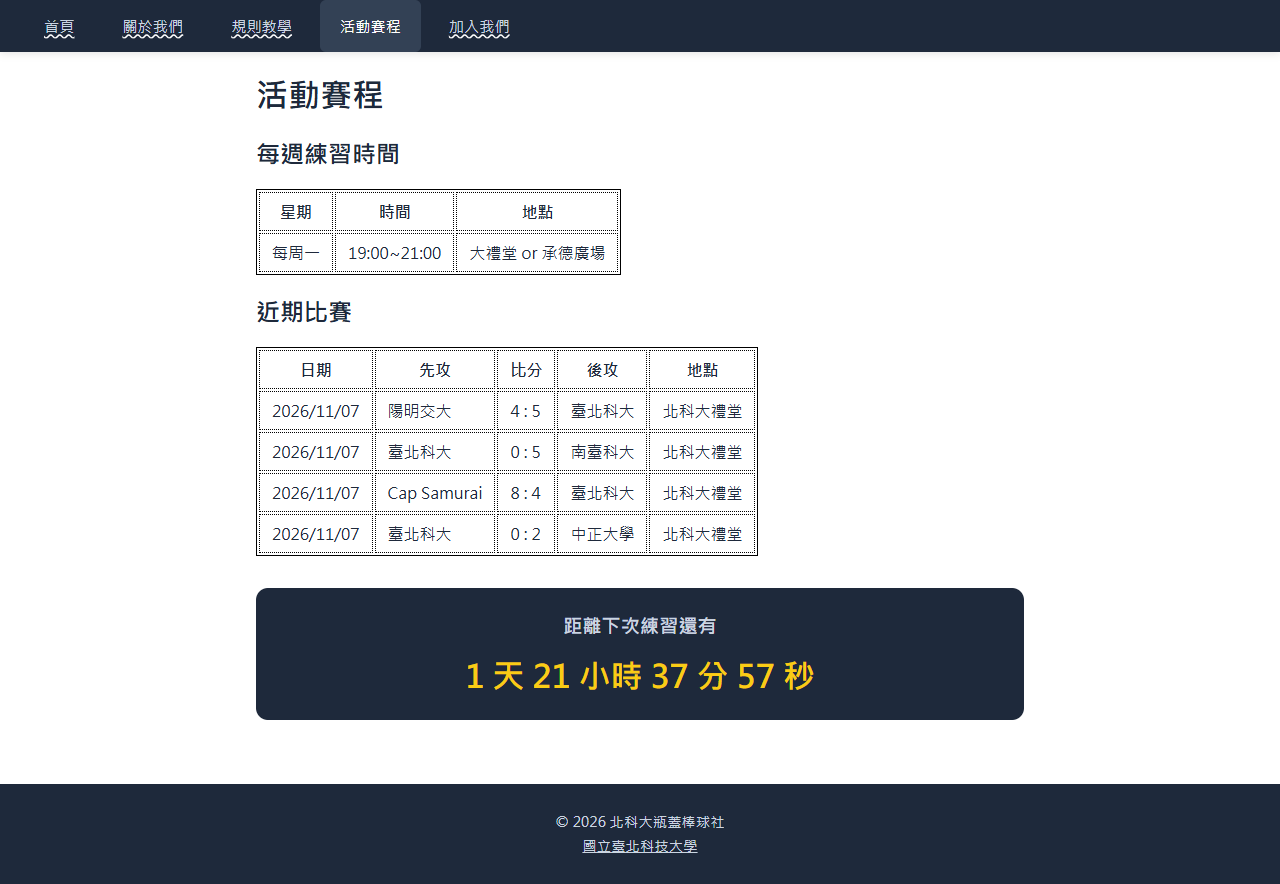
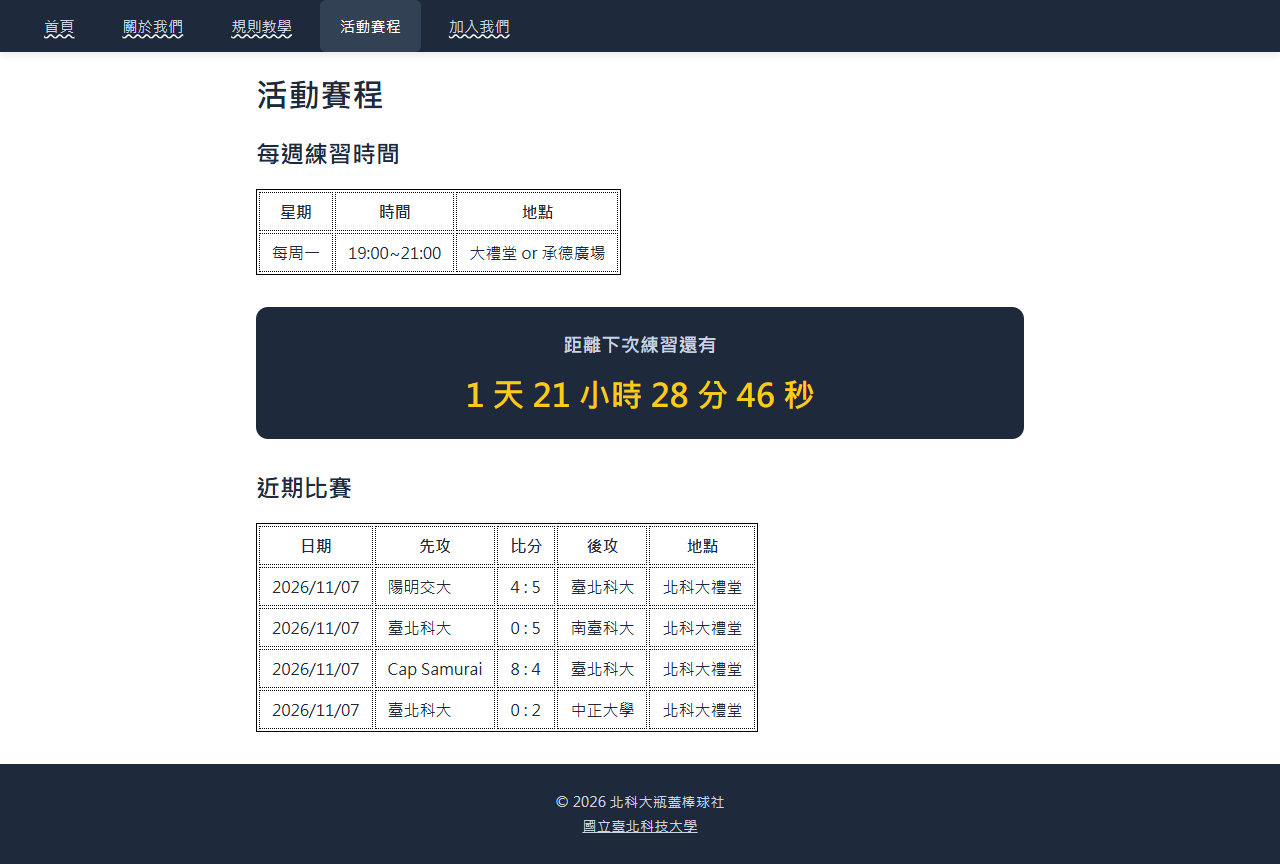
update schedule page with countdown feature and improve README descriptions

diff --git a/schedule.html b/schedule.html
@@ -43,6 +43,11 @@
       </table>
     </section>
 
+    <section class="countdown">
+      <h2>距離下次練習還有</h2>
+      <p id="countdown-display">--</p>
+    </section>
+
     <section class="upcoming">
       <h2>近期比賽</h2>
       <table>
@@ -86,11 +91,6 @@
           </tr>
         </tbody>
       </table>
-    </section>
-
-    <section class="countdown">
-      <h2>距離下次練習還有</h2>
-      <p id="countdown-display">--</p>
     </section>
 
   </main>

diff --git a/README.md b/README.md
@@ -26,25 +26,25 @@ I am the president of this club, and I want to let more people know about our cl
 
 ![Home page](screenshots/index.png)
 
-The purpose of the page is to impress the visitors with the hero image atop, along with some basic introduction of the sport and the club.
+The purpose of this page is to impress visitors with the hero image at the top, followed by a basic introduction to the sport and the club.
 
 ### About Us (`about.html`)
 
 ![About Us page](screenshots/about.png)
 
-This page introduces the history of our club, then introduces the officers of the club, and finally some liks to our social media.
+This page introduces the history of our club, then the club officers, and finally provides links to our social media.
 
 ### Rules (`rules.html`)
 
 ![Rules page](screenshots/rules.png)
 
-This page explains the basics rules of the game, and teaches visitors how to throw a basic fastball.
+This page explains the basic rules of the game and teaches visitors how to throw a basic fastball.
 
 ### Schedule (`schedule.html`)
 
 ![Schedule page](screenshots/schedule.png)
 
-TODO
+This page shows club members the weekly practice time and recent game results, and includes a countdown clock to the next practice.
 
 ### Join Us (`join.html`)
 
@@ -120,7 +120,7 @@ TODO
 
 ## Feature 3: Dynamic Copyright Information
 
-![Countdown](screenshots/copyright.png)
+![Copyright](screenshots/copyright.png)
 
 ### What the feature does
 
